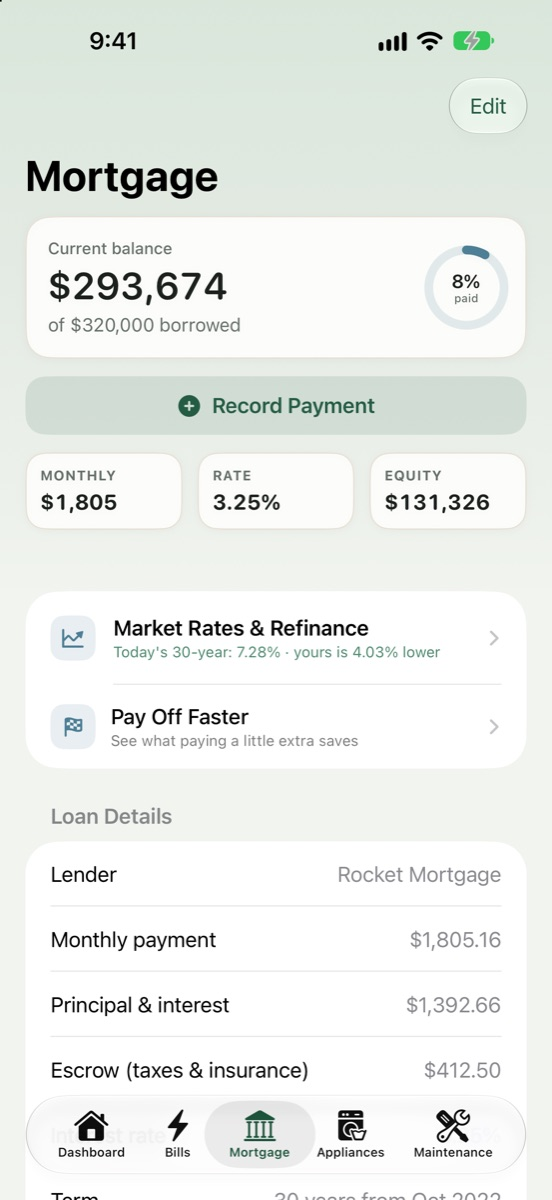
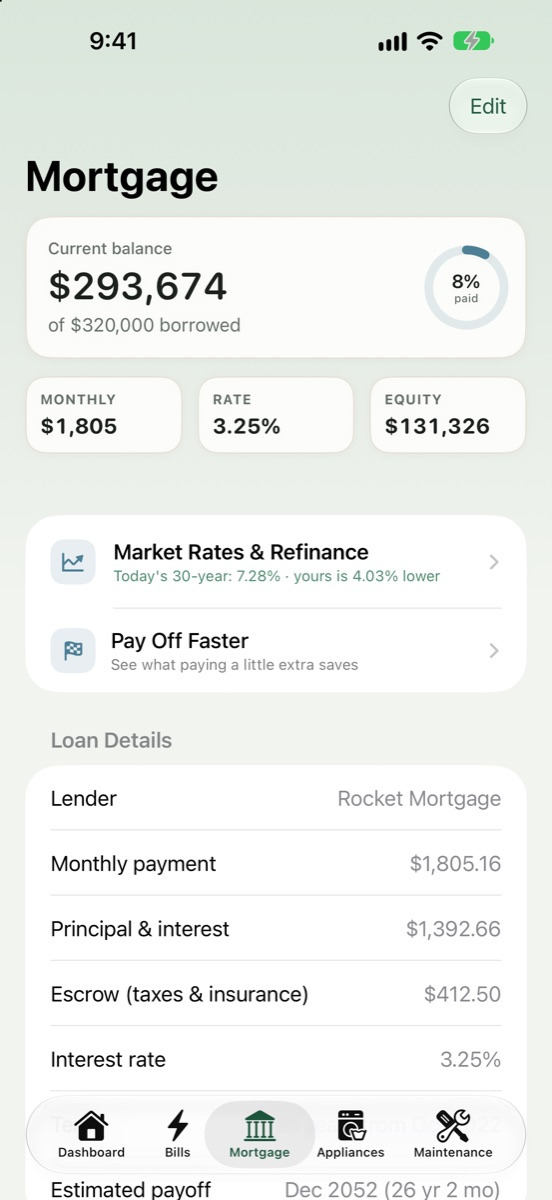
Update website from docs/

diff --git a/homeowners.html b/homeowners.html
@@ -111,6 +111,7 @@
         <h3>Your loan, balance and equity</h3>
         <p>See what you owe, what you've paid off and how much of your home is yours.</p>
         <ul>
+          <li>Your balance goes down on its own after each due date</li>
           <li>Pay Off Faster: what a little extra each month would save</li>
           <li>Today's mortgage rates, and when refinancing would actually pay off</li>
           <li>Escrow, taxes and insurance broken out</li>
@@ -119,7 +120,21 @@
       <div class="shot"><div class="phone"><img src="img/mortgage.jpg" alt="Mortgage screen with a $293,674 balance, 3.25% rate and $131,326 equity" loading="lazy"></div></div>
     </div>
 
-    <div class="feature" id="appliances">
+    <div class="feature">
+      <div class="copy">
+        <span class="eyebrow">Mortgage · Fill in from a document</span>
+        <h3>Set up your loan in seconds</h3>
+        <p>Choose your Closing Disclosure, amortization schedule or latest mortgage statement. Tallihaus reads it and fills in your loan for you.</p>
+        <ul>
+          <li>Lender, loan amount, rate, term, payment, escrow and PMI</li>
+          <li>Today's balance, worked out from your loan's schedule</li>
+          <li>Read on your iPhone or Mac. The document isn't uploaded or kept.</li>
+        </ul>
+      </div>
+      <div class="shot"><div class="phone"><img src="img/mortgage-doc.jpg" alt="Add Mortgage form filled in from a Closing Disclosure" loading="lazy"></div></div>
+    </div>
+
+    <div class="feature flip" id="appliances">
       <div class="copy">
         <span class="eyebrow">Appliances</span>
         <h3>Know what's aging before it fails</h3>
@@ -132,7 +147,7 @@
       <div class="shot"><div class="phone"><img src="img/appliances.jpg" alt="Appliances screen with a recall alert" loading="lazy"></div></div>
     </div>
 
-    <div class="feature flip">
+    <div class="feature">
       <div class="copy">
         <span class="eyebrow">Appliances · 5-year forecast</span>
         <h3>No surprise replacements</h3>
@@ -141,7 +156,7 @@
       <div class="shot"><div class="phone"><img src="img/forecast.jpg" alt="Five-year replacement forecast with a monthly amount to set aside" loading="lazy"></div></div>
     </div>
 
-    <div class="feature" id="maintenance">
+    <div class="feature flip" id="maintenance">
       <div class="copy">
         <span class="eyebrow">Maintenance</span>
         <h3>The upkeep, suggested for your home</h3>
@@ -160,7 +175,7 @@
       <h2>It looks out for you</h2>
     </div>
 
-    <div class="feature flip">
+    <div class="feature">
       <div class="copy">
         <span class="eyebrow">Money Finder</span>
         <h3>Finds money you're leaving on the table</h3>
@@ -174,7 +189,7 @@
       <div class="shot"><div class="phone"><img src="img/finder.jpg" alt="Money Finder showing possible savings of $2,199 a year" loading="lazy"></div></div>
     </div>
 
-    <div class="feature">
+    <div class="feature flip">
       <div class="copy">
         <span class="eyebrow">Your year at home</span>
         <h3>See the year, share the wins</h3>

diff --git a/index.html b/index.html
@@ -112,7 +112,7 @@
     <details><summary>When can I get Tallihaus?</summary><p>Tallihaus is in testing now. Email <a href="mailto:tallihaus@outlook.com?subject=Tallihaus%20beta">tallihaus@outlook.com</a> to join the free beta through Apple's TestFlight app. It will come to the App Store after that.</p></details>
     <details><summary>Do I need to create an account?</summary><p>No. There's nothing to sign up for. Open the app and start.</p></details>
     <details><summary>Where is my information stored?</summary><p>On your iPhone or Mac. Tallihaus doesn't have servers that hold your records. You can back up to iCloud Drive or anywhere you choose.</p></details>
-    <details><summary>Does it connect to my bank or utility account?</summary><p>No logins needed. Add a bill by taking a photo, opening the PDF, or typing it in, and Tallihaus reads the details for you.</p></details>
+    <details><summary>Does it connect to my bank or utility account?</summary><p>No logins needed. Add a bill by taking a photo, opening the PDF, or typing it in, and Tallihaus reads the details for you. Your mortgage works the same way: choose your Closing Disclosure, amortization schedule or a statement and the loan fills itself in.</p></details>
     <details><summary>Is this financial advice?</summary><p>No. Affordability, refinancing, savings and payoff numbers are estimates to help you plan. Talk with a licensed lender or advisor before you decide.</p></details>
     <details><summary>What devices does it work on?</summary><p>iPhones running iOS 18 or newer, and Macs running macOS 15 or newer.</p></details>
   </div>
